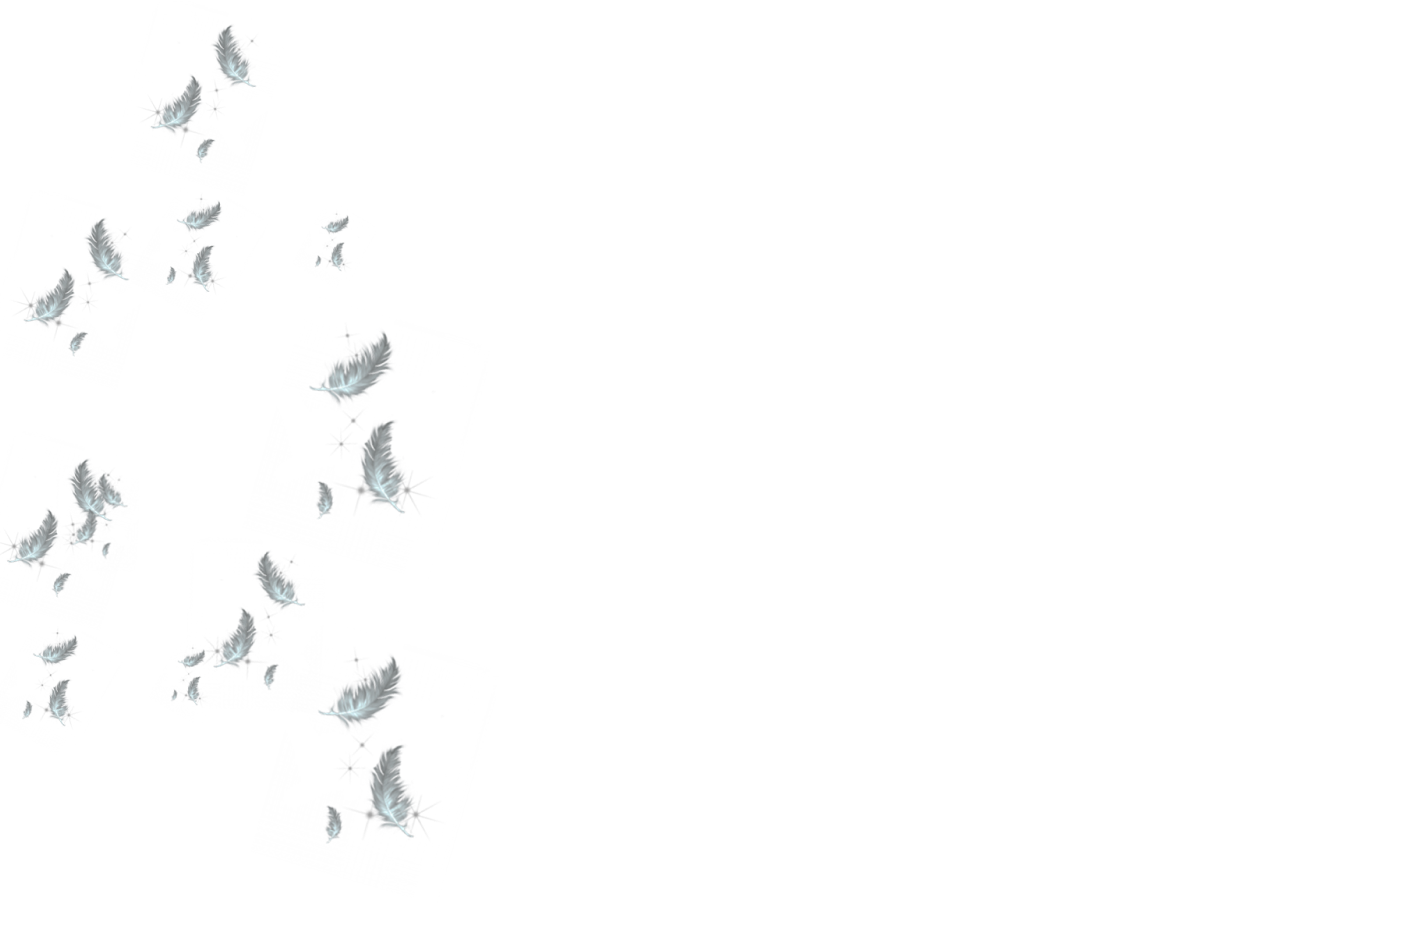
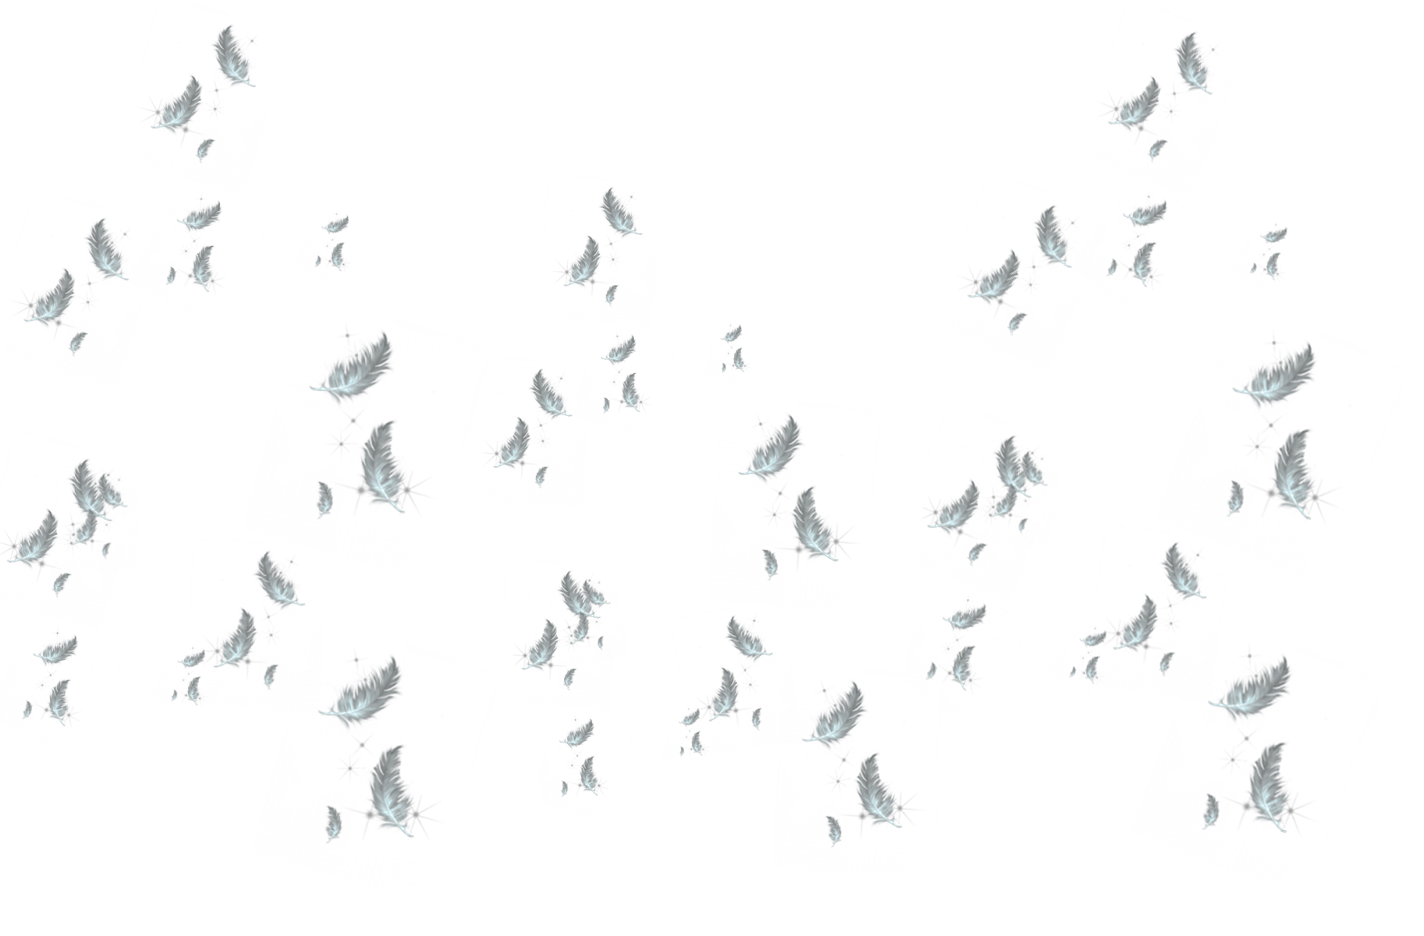
Parallax effect done

diff --git a/Entregable N4/style.css b/Entregable N4/style.css
@@ -325,8 +325,15 @@ button {
  color: #612490;
 }
 
+.hide-title{
+  transform: translateY(100px);
+  opacity: 0;
+}
+
 .gameReleaseH1{
   text-shadow: 1px 1px 2px black, 0 0 1em black, 0 0 0.2em black;
+  transition: 700ms ease-in-out transform,
+              900ms ease-in-out opacity;
 }
 
 .gameReleaseH2{
@@ -499,23 +506,49 @@ float: left;
 }
 
 .layer1{
- z-index: 1;
+  background-size: contain;
+  background-repeat: no-repeat;
+  background-image: url("./images/gamerelease/capa2t.png");
+  background-repeat: repeat-x;
+  animation: linear 70s move infinite;
 }
 
 .layer2{
-
-  z-index: 2;
+  background-size: contain;
+  background-repeat: no-repeat;
+  background-image: url("./images/gamerelease/capa3.png");
+  animation: linear 3s move1;
 }
 
 .layer3{
-  z-index: 3;
+  background-size: contain;
+  background-image: url("./images/gamerelease/capa4.png");
+  background-repeat: repeat-x;
+  animation: linear 20s move infinite;
 }
 
+.layer4{
+  background-size: contain;
+  background-repeat: no-repeat;
+  background-image: url("./images/gamerelease/capa5.png");
+  background-repeat: repeat-x;
+  animation: linear 200s move infinite;
+}
+
+@keyframes move {
+  0%{background-position-x:0px ;}
+  100%{background-position-x: 1920px;}
+}
+
+@keyframes move1 {
+  0%{background-position-x:1920px ;}
+  100%{background-position-x: 0px;}
+}
 
 
 .gameReleaseImg{
   height: 35rem;
-  width: 55rem;
+  width: 100vw;
 }
 
 .hr-div {

diff --git a/Entregable N4/gamerelease.html b/Entregable N4/gamerelease.html
@@ -43,13 +43,16 @@
 
   <div class="gameReleaseContainer releaseContainer">
     <div id="gameReleaseImages">
-      <img src="./images/gamerelease/capa2.png" alt="" class="gameReleaseImg layer1">
-      <img src="./images/gamerelease/capa3.png" alt="" class="gameReleaseImg layer2">
-      <img src="./images/gamerelease/capa4.png" alt="" class="gameReleaseImg layer3">
+
+      <img alt="" class="gameReleaseImg layer1">
+      <img alt="" class="gameReleaseImg layer2">
+      <img  alt="" class="gameReleaseImg layer3">
+      <img  alt="" class="gameReleaseImg layer4">
     </div>
     <div id="gameReleaseContent" style="z-index: 4;">
-      <h1 class="gameReleaseH1">¡La batalla te
-        espera!</h1>
+      <h1 class="gameReleaseH1">LINEAGE II</h1>
+      <h2 class="gameReleaseH1">¡La batalla te
+        espera!</h2>
       <button class="buttonOrange buttonShadow" style="margin-bottom: 0.5em;">Suscribirme</button>
       <p class="textShadow">Se te notificará cuando el juego este
         disponible</p>

diff --git a/Entregable N4/scriptGameRelease.js b/Entregable N4/scriptGameRelease.js
@@ -45,3 +45,16 @@ function showNext(n) {
     }
 
 }
+
+
+let title = document.querySelector('.gameReleaseH1');
+
+window.onscroll = function() {myFunction()};
+
+function myFunction() {
+  if (document.documentElement.scrollTop > 80) {
+    title.classList.add("hide-title");
+  }else{
+    title.classList.remove("hide-title");
+  } 
+}
